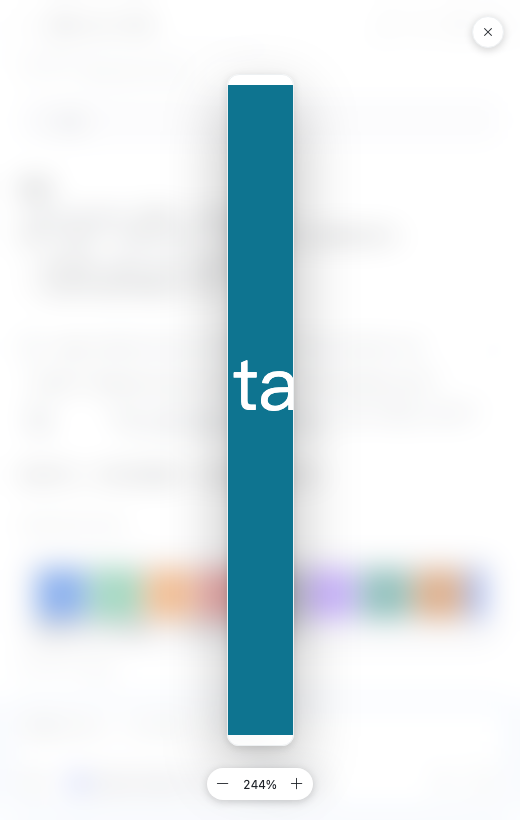
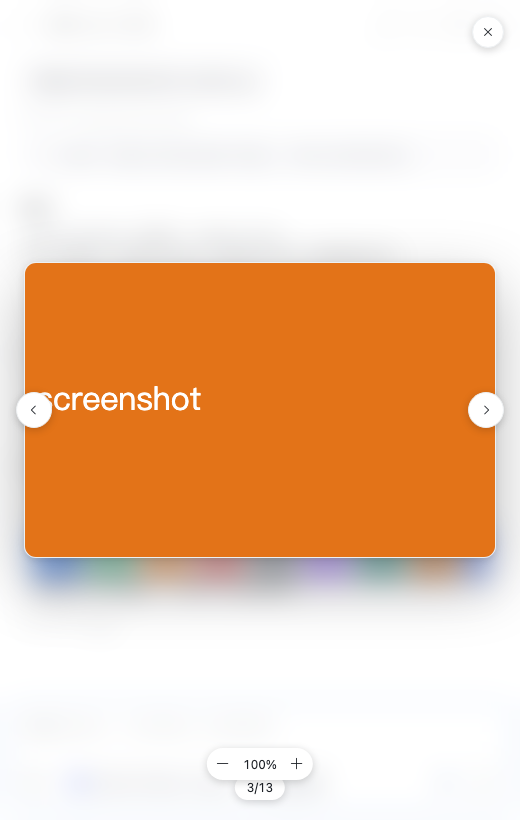
feat(chat): lightbox multi-image stepping, thin scrollbars for long lists
- openLightbox now carries the whole image batch plus the clicked index;
  the lightbox gains side steppers (hidden for single images), a 1/N
  counter pill, and ArrowLeft/ArrowRight stepping — zoom resets per image
- disabledTools: the "subagent" and "todo" ghosts leave the enum/default
  (both tools no longer exist); questionnaire and vscode_get_diagnostics
  remain the real knobs
- long scroll containers get their thin scrollbar back (.messages,
  #sessions-list, .lightbox): the global width:0 hide left no position
  sense on a 1000+ turn transcript

diff --git a/webview-vue/src/components/Lightbox.vue b/webview-vue/src/components/Lightbox.vue
@@ -1,8 +1,9 @@
 <!--
   Full-screen image preview. Opened from the transcript's image strip and the
   composer's attachment tray (`overlays.openLightbox`). Chrome: an × button
-  top-right and the zoom control at the bottom. Closes on backdrop click or
-  Escape; the picture and the control don't propagate, so a stray click never
+  top-right, ‹ › steppers on the sides when the batch has more than one image,
+  and the zoom control pinned to the bottom. Closes on backdrop click or
+  Escape; the picture and the controls don't propagate, so a stray click never
   dismisses it.
 
   Zoom resizes the image's LAYOUT box (not `transform`): a scaled `transform`
@@ -17,7 +18,7 @@ import { useOverlaysStore } from "@/stores/overlays.ts";
 
 const overlays = useOverlaysStore();
 
-/** Relative to the fit-to-screen size; resets whenever a new image opens. */
+/** Relative to the fit-to-screen size; resets whenever the image changes. */
 const SCALE_MIN = 0.25;
 const SCALE_MAX = 4;
 const SCALE_STEP = 1.25;
@@ -27,7 +28,12 @@ const imgEl = ref<HTMLImageElement | null>(null);
 /** The fit-to-screen size, captured once the image has decoded. */
 const baseSize = ref<{ w: number; h: number } | null>(null);
 
+const multi = computed(() => (overlays.lightbox?.items.length ?? 0) > 1);
+const current = computed(() => overlays.lightbox?.items[overlays.lightbox.index] ?? null);
 const scaleLabel = computed(() => `${Math.round(scale.value * 100)}%`);
+const counterLabel = computed(
+  () => `${overlays.lightbox!.index + 1}/${overlays.lightbox!.items.length}`,
+);
 const canZoomOut = computed(() => scale.value > SCALE_MIN + 0.001);
 const canZoomIn = computed(() => scale.value < SCALE_MAX - 0.001);
 
@@ -49,8 +55,6 @@ const imgStyle = computed(() => {
 
 function measure(): void {
   const el = imgEl.value;
-  (window as unknown as { __base?: unknown }).__base = baseSize.value;
-  if (!el || !overlays.lightbox) return;
   if (!el || !overlays.lightbox) return;
   if (el.clientWidth === 0 || el.clientHeight === 0) return; // not laid out yet
   baseSize.value = { w: el.clientWidth, h: el.clientHeight };
@@ -65,11 +69,15 @@ function zoomIn(): void {
 }
 
 function onKey(ev: KeyboardEvent): void {
-  if (ev.key === "Escape" && overlays.lightbox) overlays.closeLightbox();
+  if (!overlays.lightbox) return;
+  if (ev.key === "Escape") overlays.closeLightbox();
+  else if (ev.key === "ArrowLeft" && multi.value) overlays.stepLightbox(-1);
+  else if (ev.key === "ArrowRight" && multi.value) overlays.stepLightbox(1);
 }
 
 watch(
-  () => overlays.lightbox?.src,
+  // A new image (new batch or a step) resets the zoom and the measurement.
+  () => current.value?.src,
   async () => {
     scale.value = 1;
     baseSize.value = null;
@@ -96,24 +104,48 @@ onUnmounted(() => window.removeEventListener("keydown", onKey));
       <span class="codicon codicon-close"></span>
     </button>
 
+    <button
+      v-if="multi"
+      class="lightbox-nav lightbox-prev"
+      type="button"
+      :title="t('Previous image')"
+      @click.stop="overlays.stepLightbox(-1)"
+    >
+      <span class="codicon codicon-chevron-left"></span>
+    </button>
+    <button
+      v-if="multi"
+      class="lightbox-nav lightbox-next"
+      type="button"
+      :title="t('Next image')"
+      @click.stop="overlays.stepLightbox(1)"
+    >
+      <span class="codicon codicon-chevron-right"></span>
+    </button>
+
     <img
+      v-if="current"
       ref="imgEl"
-      :src="overlays.lightbox.src"
-      :alt="overlays.lightbox.alt ?? ''"
-      :title="overlays.lightbox.alt"
+      :key="current.src"
+      :src="current.src"
+      :alt="current.alt ?? ''"
+      :title="current.alt"
       :style="imgStyle"
       @load="measure"
       @click.stop
     />
 
-    <div class="lightbox-zoom" @click.stop>
-      <button type="button" :title="t('Zoom out')" :disabled="!canZoomOut" @click="zoomOut">
-        <span class="codicon codicon-remove"></span>
-      </button>
-      <span class="lightbox-zoom-value">{{ scaleLabel }}</span>
-      <button type="button" :title="t('Zoom in')" :disabled="!canZoomIn" @click="zoomIn">
-        <span class="codicon codicon-add"></span>
-      </button>
+    <div class="lightbox-footer" @click.stop>
+      <span v-if="multi" class="lightbox-count">{{ counterLabel }}</span>
+      <div class="lightbox-zoom">
+        <button type="button" :title="t('Zoom out')" :disabled="!canZoomOut" @click="zoomOut">
+          <span class="codicon codicon-remove"></span>
+        </button>
+        <span class="lightbox-zoom-value">{{ scaleLabel }}</span>
+        <button type="button" :title="t('Zoom in')" :disabled="!canZoomIn" @click="zoomIn">
+          <span class="codicon codicon-add"></span>
+        </button>
+      </div>
     </div>
   </div>
 </template>

diff --git a/webview-vue/src/styles/chat.css b/webview-vue/src/styles/chat.css
@@ -55,6 +55,12 @@
 .codicon-chevron-down::before {
   content: "\eab4";
 }
+.codicon-chevron-left::before {
+  content: "\eab5";
+}
+.codicon-chevron-right::before {
+  content: "\eab6";
+}
 .codicon-shield::before {
   content: "\eb53";
 }
@@ -4548,4 +4554,90 @@ body.ctrl-key .tool-block[data-has-file] > .tool-head:hover {
 .session-item-del {
   width: 20px;
   height: 20px;
+}
+
+/* ── lightbox：多图切换与计数 ─────────────────────────────────────────────── */
+.lightbox-nav {
+  position: fixed;
+  top: 50%;
+  transform: translateY(-50%);
+  display: inline-flex;
+  align-items: center;
+  justify-content: center;
+  width: 36px;
+  height: 36px;
+  padding: 0;
+  border: 1px solid var(--pi-border-divider);
+  border-radius: var(--pi-r-full, 999px);
+  background: var(--pi-bg-raised);
+  color: var(--pi-text);
+  cursor: pointer;
+  box-shadow: 0 2px 8px rgba(0, 0, 0, 0.18);
+}
+
+.lightbox-nav:hover {
+  background: var(--pi-bg-hover);
+}
+
+.lightbox-nav .codicon {
+  font-size: 14px;
+}
+
+.lightbox-prev {
+  left: 16px;
+}
+
+.lightbox-next {
+  right: 16px;
+}
+
+.lightbox-footer {
+  position: fixed;
+  bottom: 20px;
+  left: 50%;
+  transform: translateX(-50%);
+  display: inline-flex;
+  align-items: center;
+  gap: 8px;
+}
+
+.lightbox-count {
+  display: inline-flex;
+  align-items: center;
+  padding: 5px 12px;
+  border-radius: var(--pi-r-full, 999px);
+  background: var(--pi-bg-raised);
+  color: var(--pi-text);
+  font-size: var(--chat-fs-12);
+  font-variant-numeric: tabular-nums;
+  box-shadow: 0 2px 8px rgba(0, 0, 0, 0.18);
+}
+
+/* ── 长滚动容器恢复细滚动条（全局 width:0 隐藏导致长内容无位置感知）──────── */
+.messages,
+#sessions-list,
+.lightbox {
+  scrollbar-width: thin;
+  scrollbar-color: var(--pi-scrollbar, rgba(127, 127, 127, 0.4)) transparent;
+}
+
+.messages::-webkit-scrollbar,
+#sessions-list::-webkit-scrollbar,
+.lightbox::-webkit-scrollbar {
+  width: 6px;
+  height: 6px;
+  display: block;
+}
+
+.messages::-webkit-scrollbar-thumb,
+#sessions-list::-webkit-scrollbar-thumb,
+.lightbox::-webkit-scrollbar-thumb {
+  background: var(--pi-scrollbar, rgba(127, 127, 127, 0.4));
+  border-radius: 3px;
+}
+
+.messages::-webkit-scrollbar-track,
+#sessions-list::-webkit-scrollbar-track,
+.lightbox::-webkit-scrollbar-track {
+  background: transparent;
 }

diff --git a/webview-vue/src/stores/overlays.ts b/webview-vue/src/stores/overlays.ts
@@ -59,11 +59,21 @@ export const useOverlaysStore = defineStore("overlays", () => {
 
   const confirmState = ref<RewindConfirm | null>(null);
 
-  /** Full-screen image preview (`Lightbox`); `null` while closed. */
-  const lightbox = ref<{ src: string; alt?: string } | null>(null);
+  /**
+   * Full-screen image preview (`Lightbox`); `null` while closed. Carries the
+   * whole image batch so the lightbox can step between them.
+   */
+  const lightbox = ref<{ items: Array<{ src: string; alt?: string }>; index: number } | null>(null);
 
-  function openLightbox(src: string, alt?: string): void {
-    lightbox.value = { src, alt };
+  function openLightbox(items: Array<{ src: string; alt?: string }>, index = 0): void {
+    lightbox.value = { items, index };
+  }
+
+  /** Step between the batch's images, wrapping at both ends. */
+  function stepLightbox(dir: 1 | -1): void {
+    const lb = lightbox.value;
+    if (!lb || lb.items.length < 2) return;
+    lb.index = (lb.index + dir + lb.items.length) % lb.items.length;
   }
 
   function closeLightbox(): void {
@@ -136,6 +146,7 @@ export const useOverlaysStore = defineStore("overlays", () => {
     confirmState,
     lightbox,
     openLightbox,
+    stepLightbox,
     closeLightbox,
     toast,
     sticky,

diff --git a/webview-vue/src/components/TurnBlock.vue b/webview-vue/src/components/TurnBlock.vue
@@ -89,7 +89,15 @@ function revertToUser(): void {
           :key="index"
           :src="imageSrc(image)"
           :alt="turn.user.text || ''"
-          @click.stop="overlays.openLightbox(imageSrc(image), turn.user?.text || undefined)"
+          @click.stop="
+            overlays.openLightbox(
+              turn.user.images.map((img) => ({
+                src: imageSrc(img),
+                alt: turn.user?.text || undefined,
+              })),
+              index,
+            )
+          "
         />
       </div>
       <div v-if="turn.user.text" class="user-text">{{ turn.user.text }}</div>

diff --git a/webview-vue/src/components/Composer.vue b/webview-vue/src/components/Composer.vue
@@ -771,7 +771,12 @@ onUnmounted(() => {
           <img
             :src="dataUrl(image)"
             :title="t('Click to preview')"
-            @click="overlays.openLightbox(dataUrl(image))"
+            @click="
+              overlays.openLightbox(
+                composer.images.map((img) => ({ src: dataUrl(img), alt: img.name })),
+                index,
+              )
+            "
           />
           <button
             class="attach-remove"

diff --git a/webview-vue/src/stores/composer.ts b/webview-vue/src/stores/composer.ts
@@ -14,6 +14,8 @@ export interface PendingImage {
   type: "image";
   data: string;
   mimeType: string;
+  /** Original file name, used as the lightbox image's alt/title. */
+  name?: string;
 }
 
 export type ComposerPopup = "model" | "thinking" | "permission" | "sessions" | null;
